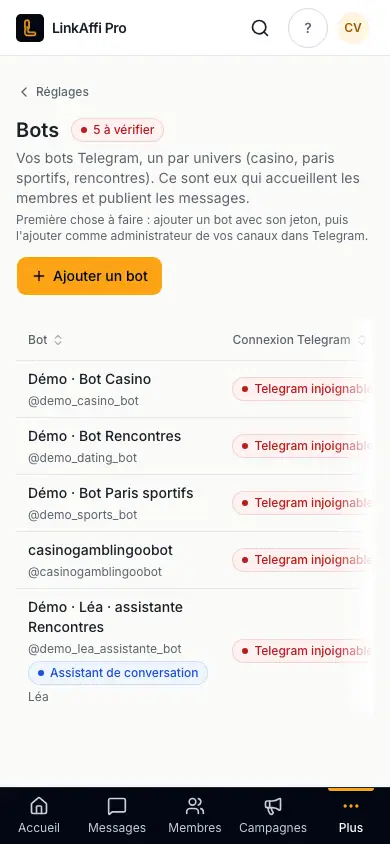
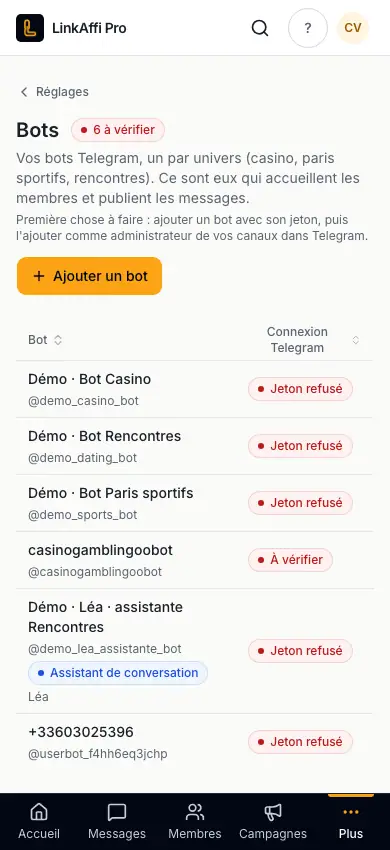
phase 26 : captures de reference (Kevin, Reglages Bots)

diff --git a/docs/REFONTE-CAPTURES.md b/docs/REFONTE-CAPTURES.md
@@ -4,7 +4,7 @@ Index généré par `pnpm captures` (ne pas modifier à la main) : une ligne par
 largeur, en webp. Procédure complète (base de démonstration locale, serveur de développement, contrôle axe) :
 voir l'en-tête de `apps/web/scripts/captures.ts`.
 
-Dernière mise à jour : 2026-10-24 06:40 UTC.
+Dernière mise à jour : 2026-10-24 16:34 UTC.
 
 | Page | Adresse | 1440 px | 390 px |
 | --- | --- | --- | --- |
@@ -86,6 +86,7 @@ Dernière mise à jour : 2026-10-24 06:40 UTC.
 | Agents | `/agents` | <a href="captures/agents-1440.webp"><img src="captures/agents-1440.webp" alt="Agents, 1440 px" width="360"></a> | <a href="captures/agents-390.webp"><img src="captures/agents-390.webp" alt="Agents, 390 px" width="120"></a> |
 | Agent Ads | `/agents/ads` | <a href="captures/agents-ads-1440.webp"><img src="captures/agents-ads-1440.webp" alt="Agent Ads, 1440 px" width="360"></a> | <a href="captures/agents-ads-390.webp"><img src="captures/agents-ads-390.webp" alt="Agent Ads, 390 px" width="120"></a> |
 | Ce qui marche | `/agents/algo` : déborde à droite à 1440 px (contenu de 2151 px de large) ; déborde à droite à 390 px (contenu de 878 px de large) | <a href="captures/agents-algo-1440.webp"><img src="captures/agents-algo-1440.webp" alt="Ce qui marche, 1440 px" width="360"></a> | <a href="captures/agents-algo-390.webp"><img src="captures/agents-algo-390.webp" alt="Ce qui marche, 390 px" width="120"></a> |
+| Kevin | `/agents/boss` | <a href="captures/agents-boss-1440.webp"><img src="captures/agents-boss-1440.webp" alt="Kevin, 1440 px" width="360"></a> | <a href="captures/agents-boss-390.webp"><img src="captures/agents-boss-390.webp" alt="Kevin, 390 px" width="120"></a> |
 | Équipe Casino | `/agents/casino` | <a href="captures/agents-casino-1440.webp"><img src="captures/agents-casino-1440.webp" alt="Équipe Casino, 1440 px" width="360"></a> | <a href="captures/agents-casino-390.webp"><img src="captures/agents-casino-390.webp" alt="Équipe Casino, 390 px" width="120"></a> |
 | Équipe Rencontres | `/agents/dating` | <a href="captures/agents-dating-1440.webp"><img src="captures/agents-dating-1440.webp" alt="Équipe Rencontres, 1440 px" width="360"></a> | <a href="captures/agents-dating-390.webp"><img src="captures/agents-dating-390.webp" alt="Équipe Rencontres, 390 px" width="120"></a> |
 | Journal des agents | `/agents/journal` | <a href="captures/agents-journal-1440.webp"><img src="captures/agents-journal-1440.webp" alt="Journal des agents, 1440 px" width="360"></a> | <a href="captures/agents-journal-390.webp"><img src="captures/agents-journal-390.webp" alt="Journal des agents, 390 px" width="120"></a> |
